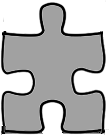
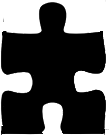
- added the solid black puzzle pieces

diff --git a/canvas_puzzle/index.html b/canvas_puzzle/index.html
@@ -165,7 +165,7 @@
                 <div data-provide="puzzle-btns" class="btn-group hidden">
                     <button data-provide="show-menu" class="btn btn-default">Preview</button>
                     <button class="btn btn-default" id="shuffle">Shuffle</button>
-                    <button class="btn btn-default" id="giveMe">Ask Madden! <small>(Free one)</small></button>
+                    <button class="btn btn-default" id="giveMe">Ask Madden! <small>(Free piece)</small></button>
                     <button class="btn btn-danger" id="reset">Reset</button>
                 </div>
                                                                 
@@ -619,6 +619,12 @@
           fc.renderAll();          
       }      
       
+      function showLoadingScreen(){
+          $("[data-provide='url-error']").addClass("hidden");
+          $("[data-provide='select-puzzle']").addClass("hidden");
+          $("[data-provide='loading']").removeClass("hidden");              
+      }
+      
       $(document).ready(function(){           
         
           var loadedImages = 
@@ -635,6 +641,7 @@
           
           var windowHash = window.location.hash.replace("#", "");
           if( windowHash.length ){
+              showLoadingScreen();
               bootstrap(windowHash, loadedImages);
           }
           
@@ -663,6 +670,7 @@
                  if( result.error ){
                      errorDiv.removeClass("hidden").text(result.error);                     
                  }else{
+                     showLoadingScreen();
                      bootstrap(result.filename, loadedImages);
                  }                 
              });             
@@ -685,15 +693,10 @@
                           
              return false;
           });
-          
-          $("a[data-provide='select-image']").click(function(){
-              
-              $("[data-provide='url-error']").addClass("hidden");
-              $("[data-provide='select-puzzle']").addClass("hidden");
-              $("[data-provide='loading']").removeClass("hidden");
-              
-              bootstrap( $(this).attr("href").replace("#", ""), loadedImages );
-              
+                    
+          $("a[data-provide='select-image']").click(function(){              
+              showLoadingScreen();
+              bootstrap( $(this).attr("href").replace("#", ""), loadedImages );              
               return false;
           });
           
